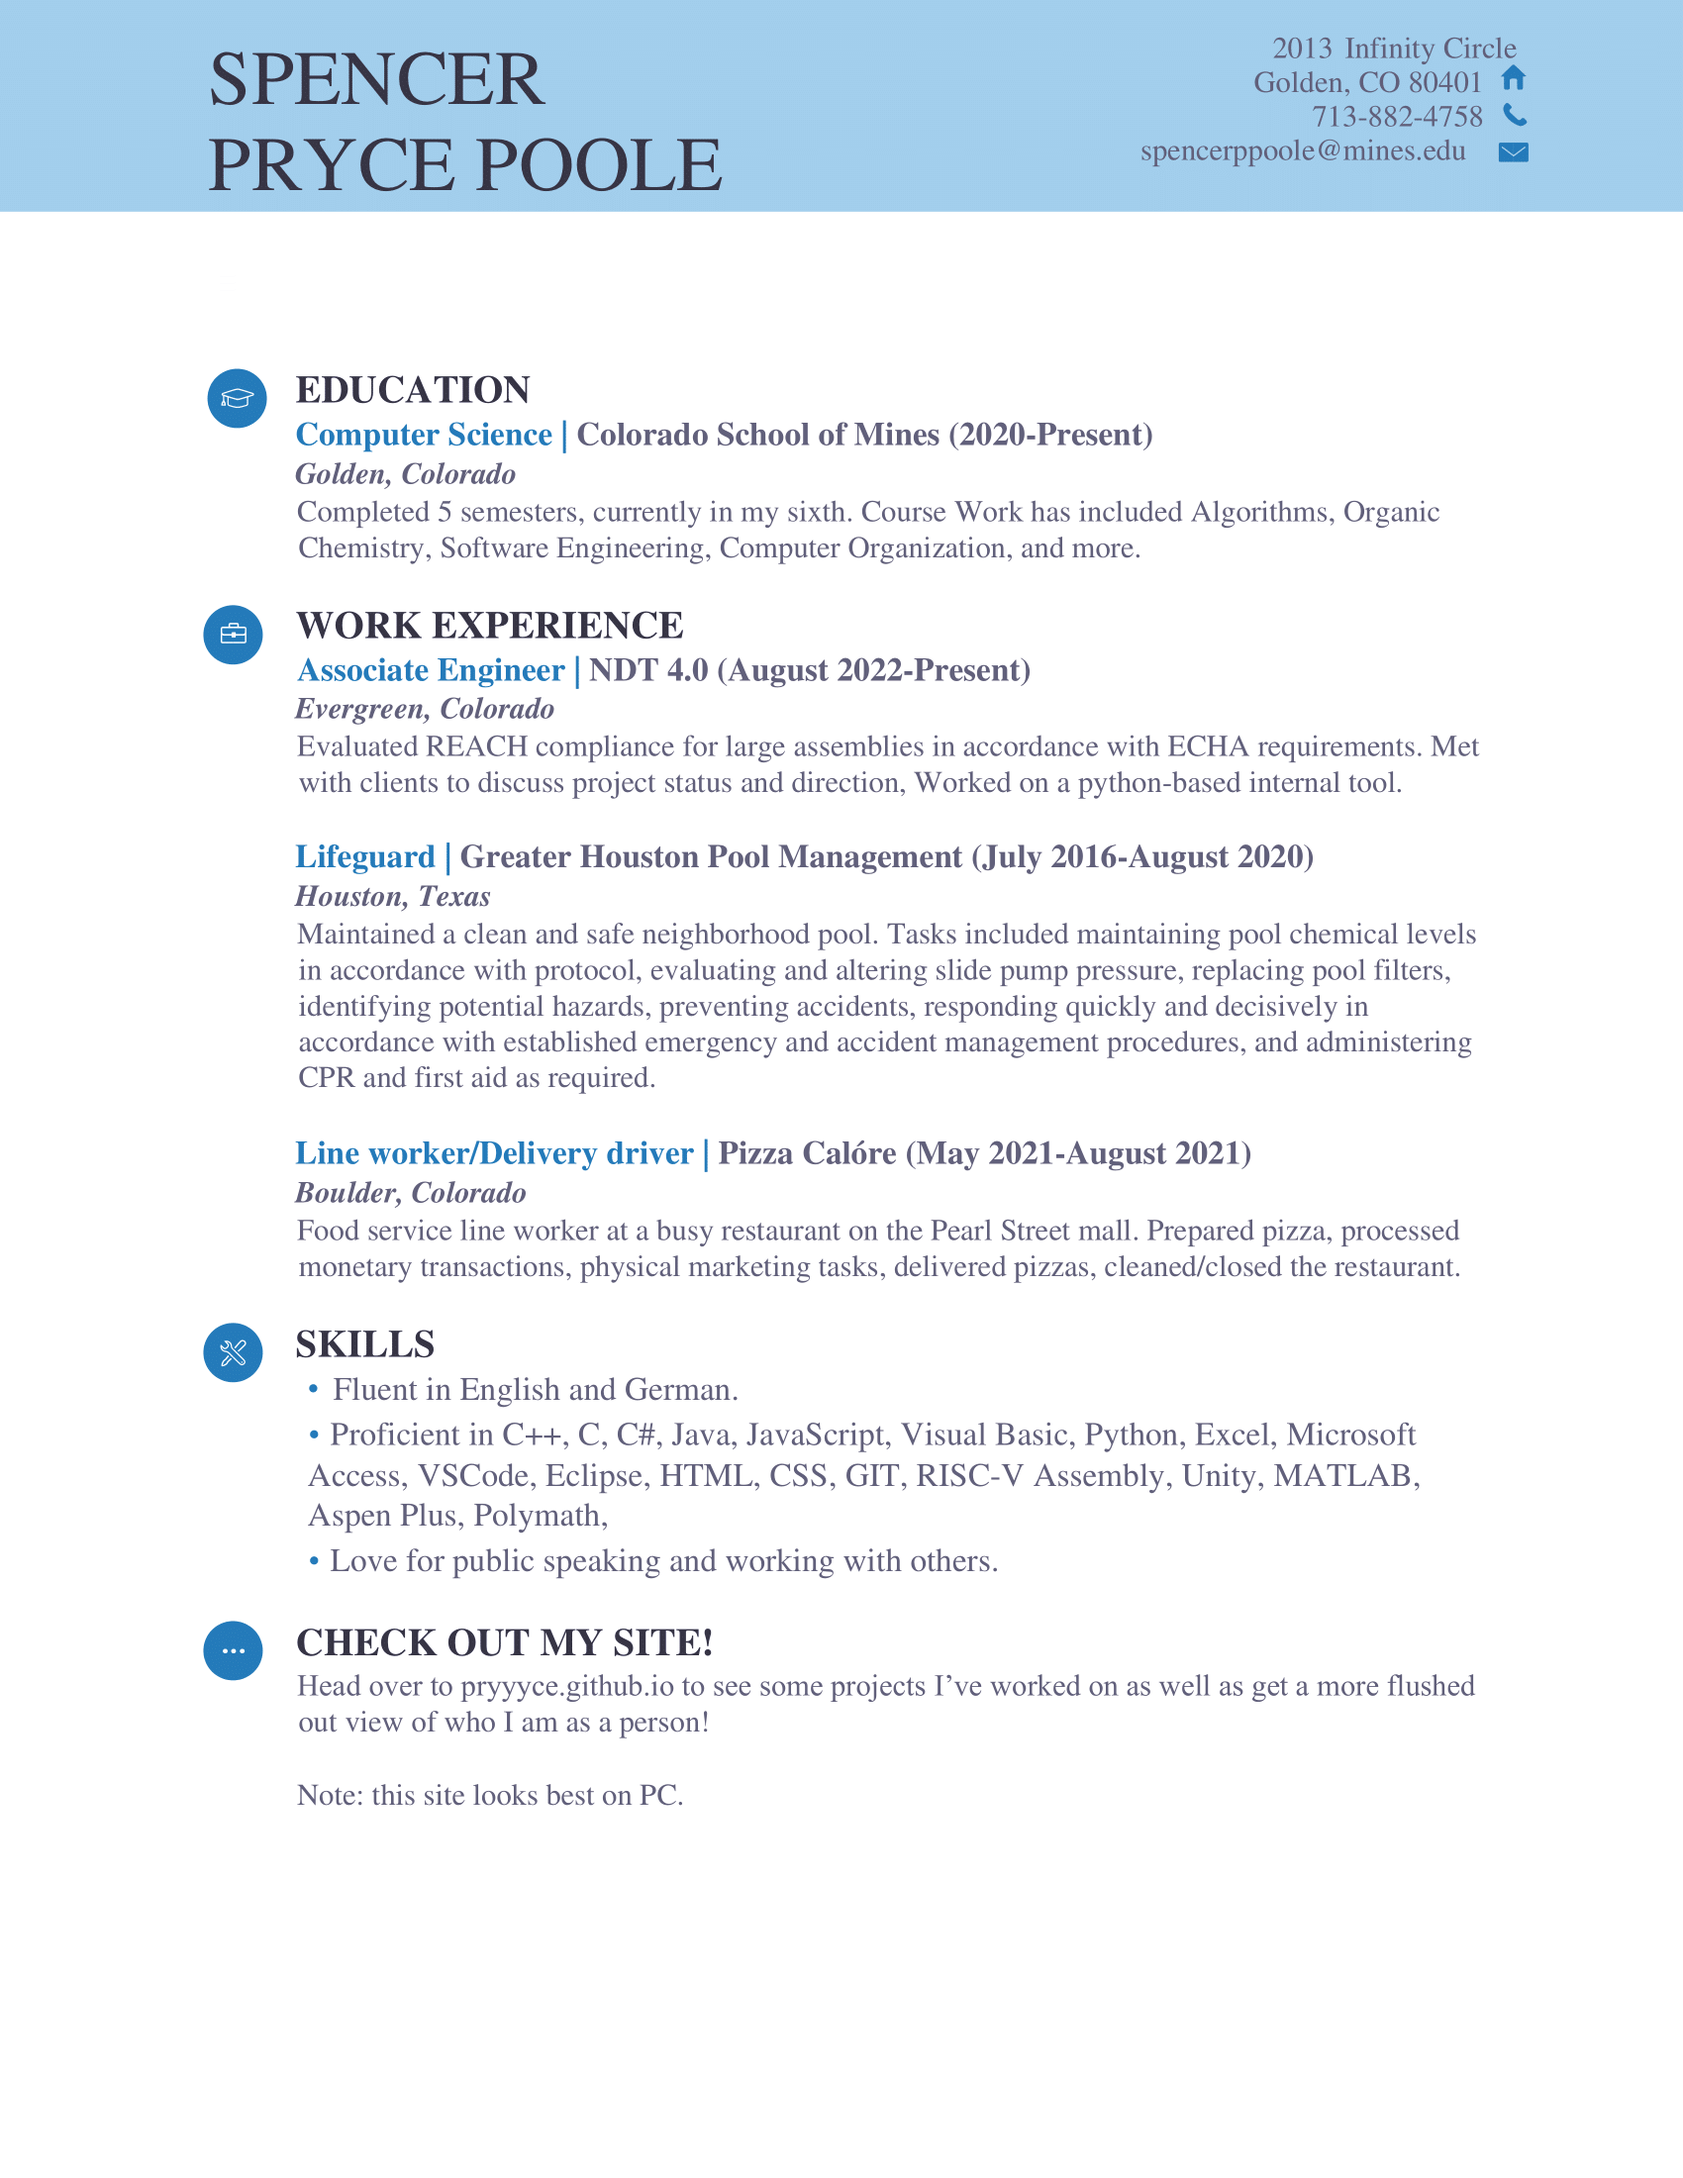
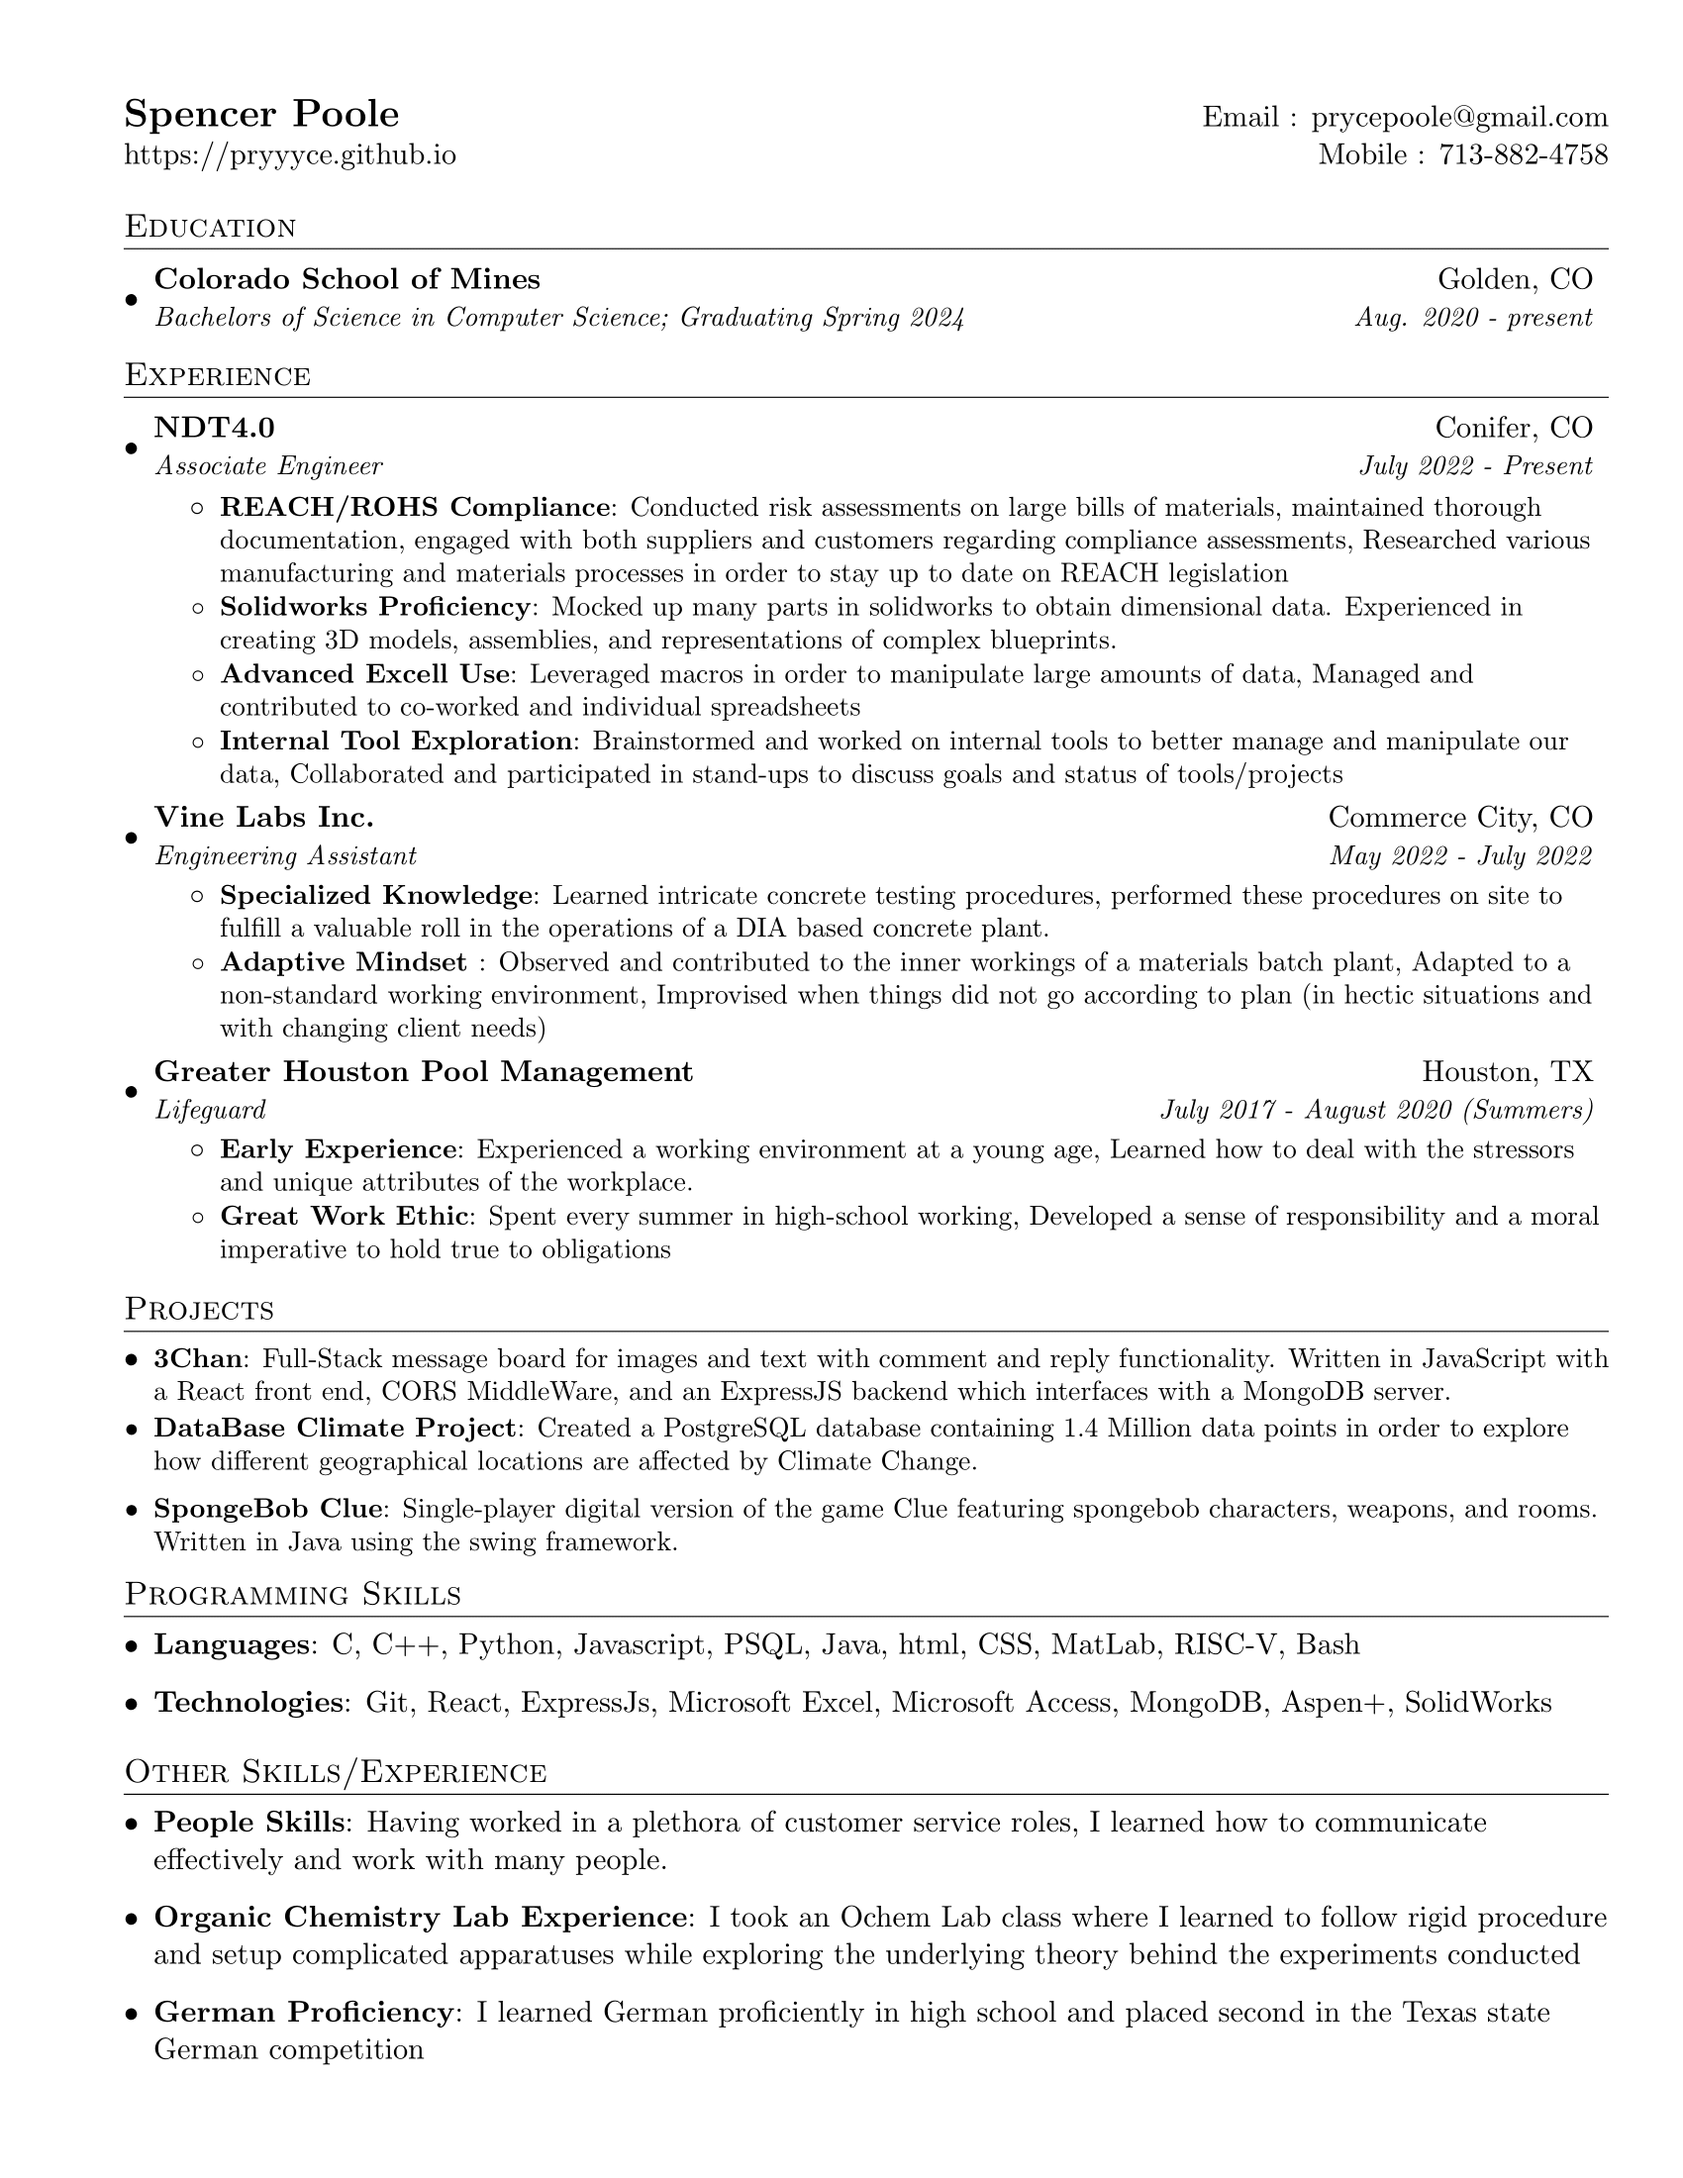
fixed thrashing issue
updated resume also

Changed region(s): [[0.0, 0.0, 1.0, 0.9582]]

diff --git a/style1.css b/style1.css
@@ -1,4 +1,4 @@
-@import url(//db.onlinewebfonts.com/c/17363ed78e2b5e259e228bad72318a1f?family=American+Typewriter);
+
 .Title{
     background-image: linear-gradient(270deg,#CA6B03,#ED9B07);
     
@@ -57,7 +57,7 @@
     padding-bottom:50px;
     margin-left:auto;
     margin-right:auto;
-    font-family: Arial black,"American Typewriter",system-ui;
+    font-family: Arial black,system-ui;
     font-size:.75cm;
 }
 ul{

diff --git a/index.html b/index.html
@@ -2,7 +2,7 @@
 
 <head style="background-color:#051C2C;">
     <link rel="stylesheet" href="style1.css">
-    <link href="//db.onlinewebfonts.com/c/17363ed78e2b5e259e228bad72318a1f?family=American+Typewriter" rel="stylesheet" type="text/css"/> 
+
 
 </head>
 <body style="background-image:linear-gradient(270deg,#051C2C,#214A60)">
